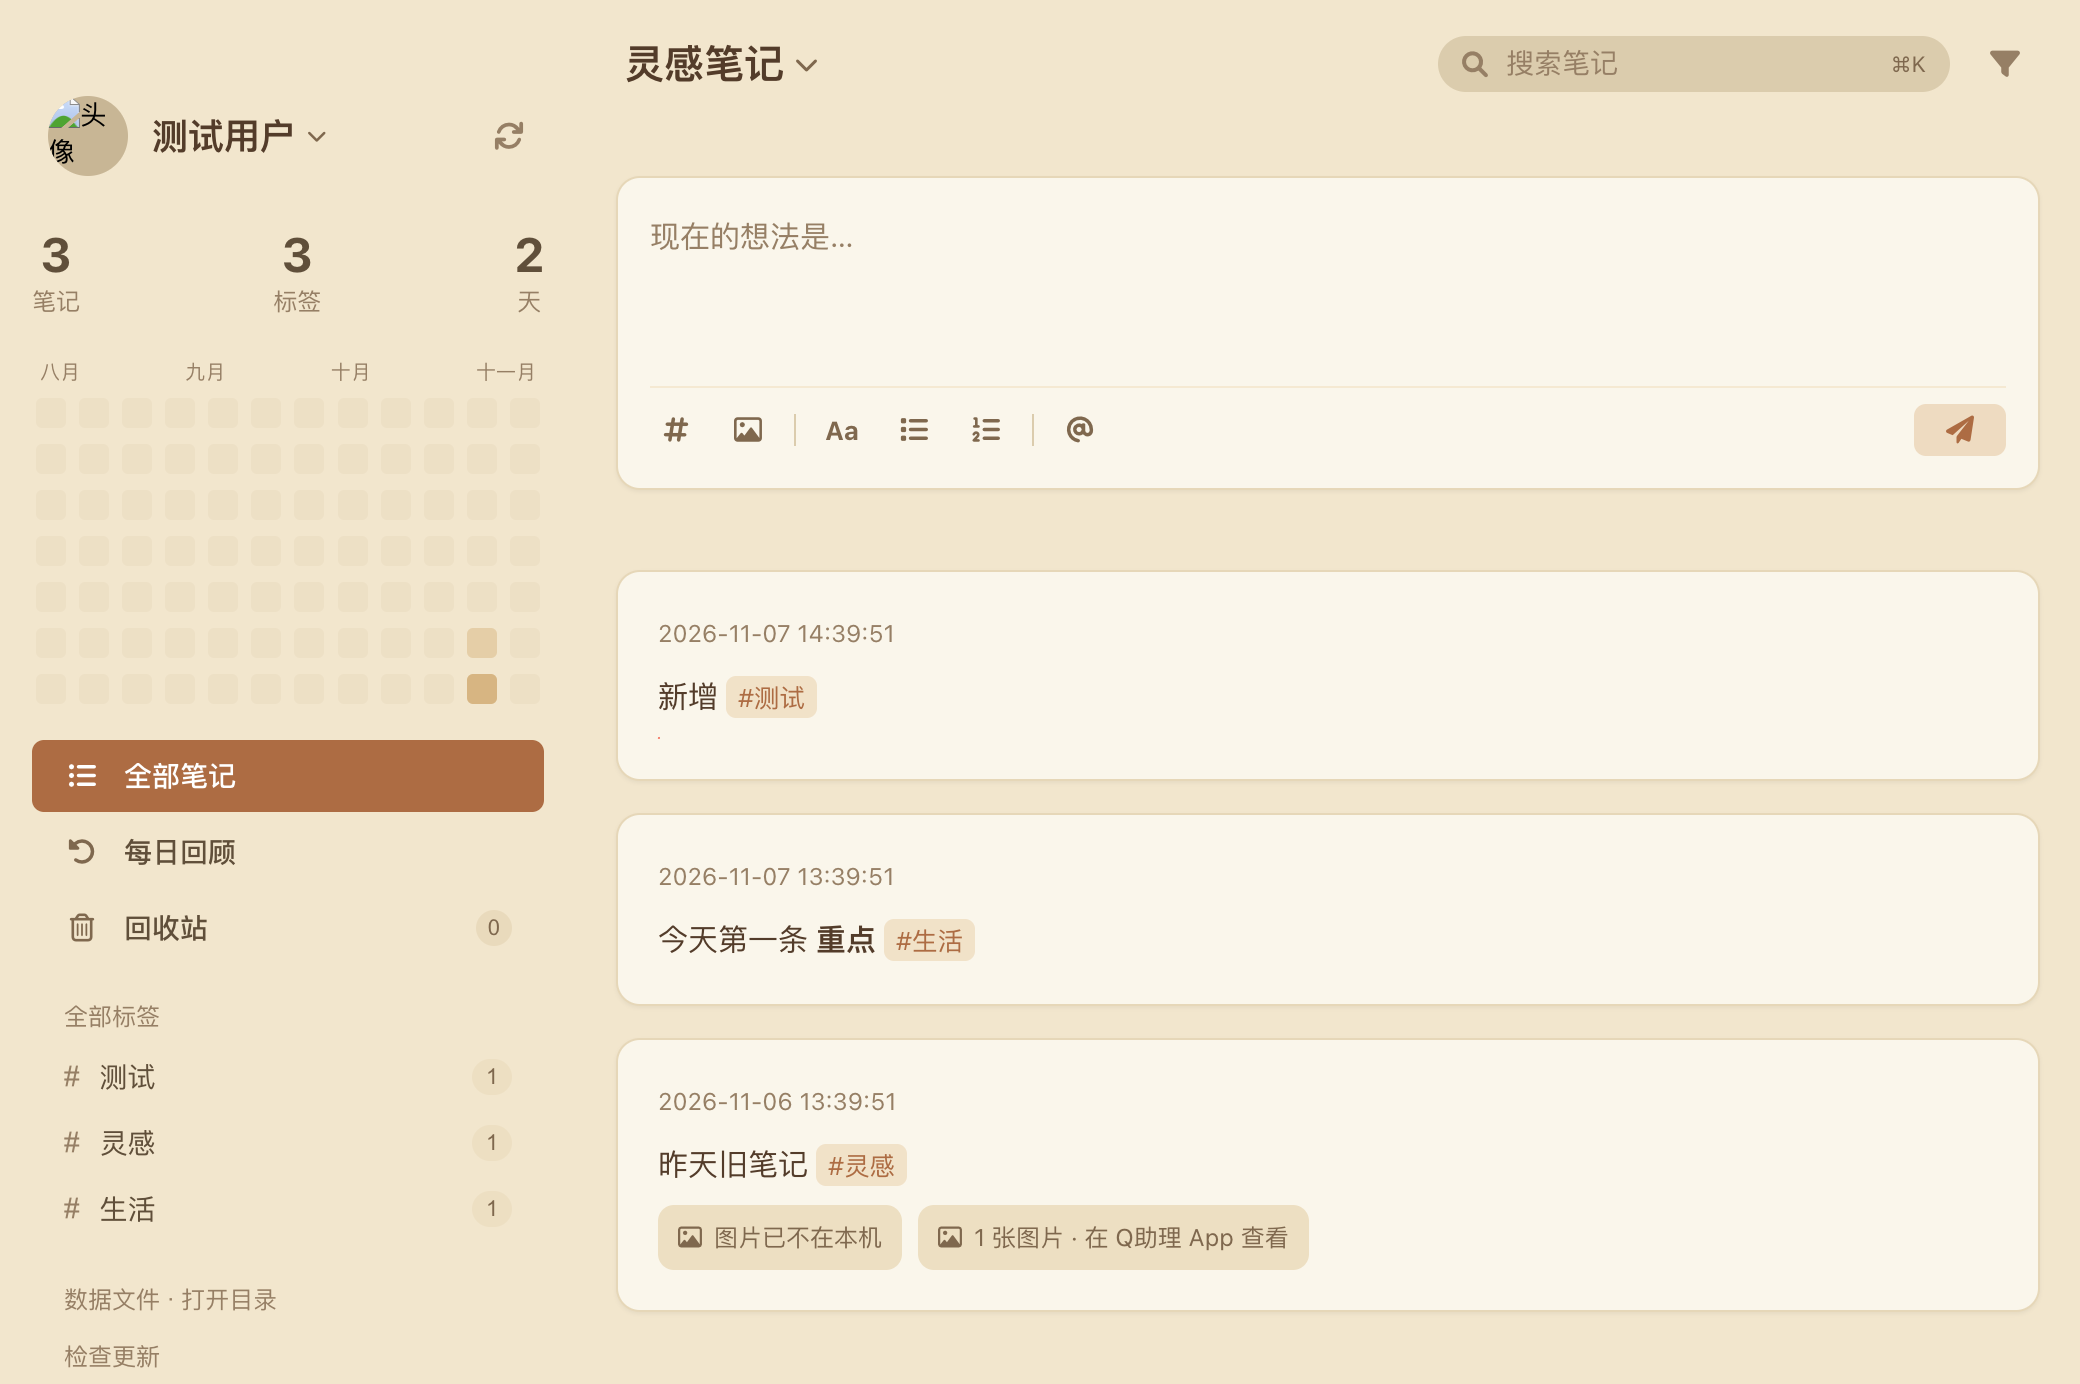
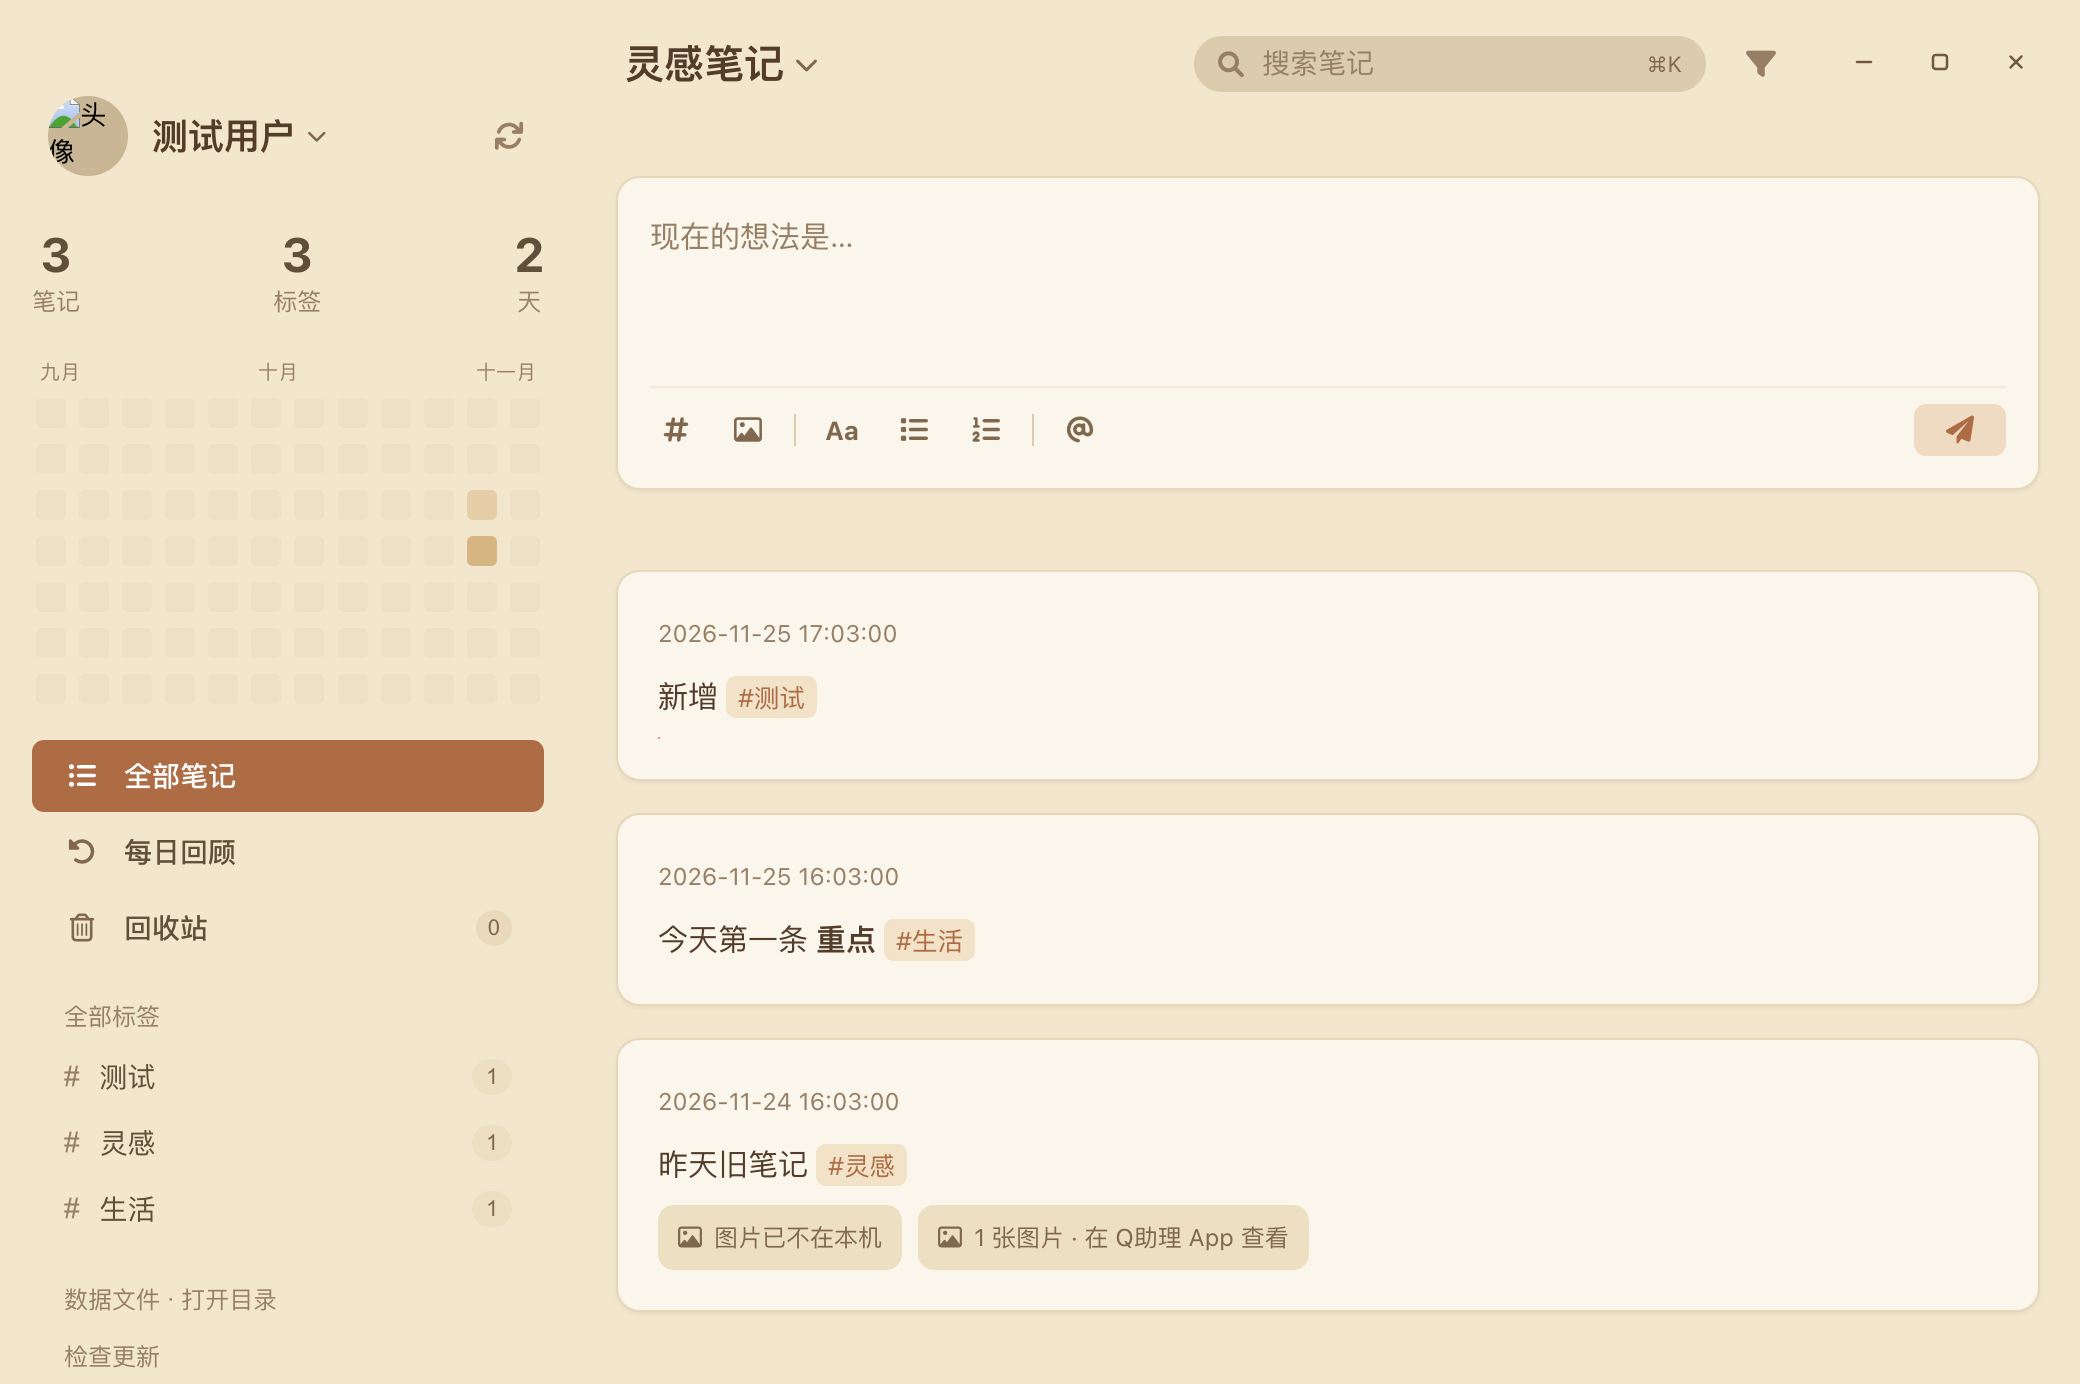
feat(win): 去掉系统标题栏/菜单条，右上角自绘三按钮
- main.js：Windows/Linux 走 frame:false 无边框；非 macOS 平台 Menu.setApplicationMenu(null)
  移除系统菜单条（macOS 保留默认菜单，Cmd+C/V/Q 依赖它）
- 新增 window:minimize / window:toggle-maximize / window:close IPC，
  最大化状态经 window:maximized 推给渲染层（按钮图标在最大化/还原间切换）
- 渲染层：右上角固定三按钮（36x30、细线图标、hover 浅棕底、关闭 hover 暖红），
  跟随主题色；Windows 下顶栏右 padding 146px 避让；登录页整页可拖动、卡片不参与
- preload：暴露 windowControls + platform（IDEA_NOTE_FORCE_WIN_CONTROLS=1 可在 mac 预览）
- smoke：新增三按钮断言（存在/数量/尺寸/no-drag/贴右/按平台显示或隐藏）；
  默认与 force-win 两种模式均 SMOKE_PASS=true；npm test 407 全过

diff --git a/main.js b/main.js
@@ -7,7 +7,7 @@
  */
 'use strict';
 
-const { app, BrowserWindow, Tray, Menu, globalShortcut, shell, nativeImage, screen } = require('electron');
+const { app, BrowserWindow, Tray, Menu, globalShortcut, shell, nativeImage, screen, ipcMain } = require('electron');
 const path = require('path');
 const fs = require('fs');
 const { initApp } = require('./app-core');
@@ -119,7 +119,7 @@ function migrateLegacyDataDir() {
 
 function createWindow() {
   const state = loadWindowState() || {};
-  mainWindow = new BrowserWindow({
+  const winOptions = {
     width: state.width || 1040,
     height: state.height || 720,
     minWidth: MIN_W,
@@ -128,20 +128,33 @@ function createWindow() {
     backgroundColor: '#f4e9d3',
     show: false,
     icon: APP_ICON(),
-    // 无边框窗口：隐藏原生标题栏，保留 macOS 红黄绿交通灯按钮
-    titleBarStyle: 'hiddenInset',
-    trafficLightPosition: { x: 16, y: 14 },
     webPreferences: {
       preload: path.join(__dirname, 'preload.js'),
       contextIsolation: true,
       nodeIntegration: false,
       sandbox: true
     }
-  });
+  };
+  if (process.platform === 'darwin') {
+    // macOS：隐藏原生标题栏，保留红黄绿交通灯按钮
+    winOptions.titleBarStyle = 'hiddenInset';
+    winOptions.trafficLightPosition = { x: 16, y: 14 };
+  } else {
+    // Windows/Linux：完全无边框（没有系统标题栏/菜单条），右上角自绘三按钮
+    winOptions.frame = false;
+  }
+  mainWindow = new BrowserWindow(winOptions);
 
   mainWindow.loadFile(path.join(__dirname, 'renderer', 'index.html'));
 
-  mainWindow.once('ready-to-show', () => mainWindow.show());
+  mainWindow.once('ready-to-show', () => {
+    mainWindow.show();
+    pushMaximizedState();
+  });
+
+  // 最大化/还原状态推给渲染层，用于切换右上角按钮图标
+  mainWindow.on('maximize', pushMaximizedState);
+  mainWindow.on('unmaximize', pushMaximizedState);
 
   // 点击关闭按钮 -> 隐藏到托盘（保持后台快速记录能力）；隐藏/退出时保存窗口宽高
   mainWindow.on('close', (e) => {
@@ -198,6 +211,27 @@ function toggleWindow() {
   }
 }
 
+// ---- 无边框窗口（Windows/Linux）：右上角自绘三按钮 ----
+function pushMaximizedState() {
+  if (!mainWindow || mainWindow.isDestroyed()) return;
+  mainWindow.webContents.send('window:maximized', mainWindow.isMaximized());
+}
+
+function registerWindowControls() {
+  ipcMain.on('window:minimize', () => {
+    if (mainWindow) mainWindow.minimize();
+  });
+  ipcMain.on('window:toggle-maximize', () => {
+    if (!mainWindow) return;
+    if (mainWindow.isMaximized()) mainWindow.unmaximize();
+    else mainWindow.maximize();
+  });
+  // 关闭走 close 事件 → 沿用「隐藏到托盘、不退出」的既有语义
+  ipcMain.on('window:close', () => {
+    if (mainWindow) mainWindow.close();
+  });
+}
+
 function focusInput() {
   if (mainWindow && mainWindow.webContents) {
     mainWindow.webContents.send('app:focus-input');
@@ -221,6 +255,8 @@ function registerGlobalShortcut() {
 // ---- 应用生命周期 ----
 app.whenReady().then(async () => {
   migrateLegacyDataDir();
+  // Windows/Linux：去掉系统菜单条（File/Edit/…）；macOS 保留默认菜单（Cmd+C/V/Q 依赖它）
+  if (process.platform !== 'darwin') Menu.setApplicationMenu(null);
   // macOS Dock 图标（开发/运行期即替换为产品图标）
   if (process.platform === 'darwin' && app.dock) {
     app.dock.setIcon(APP_ICON());
@@ -238,6 +274,7 @@ app.whenReady().then(async () => {
   }
   createTray();
   registerGlobalShortcut();
+  registerWindowControls();
 
   // 自动化升级：启动后自动检查、后台下载、就绪后提示重启安装（打包版生效）
   initUpdater({

diff --git a/smoke-test.js b/smoke-test.js
@@ -236,6 +236,25 @@ app.whenReady().then(async () => {
       out.sidebarTagCount = document.querySelectorAll('.tag-item').length;
       out.memoCount = document.getElementById('stat-memos').textContent;
 
+      // 无边框窗口三按钮（Windows 自绘；macOS 隐藏、走原生红黄绿）
+      const wc = document.getElementById('win-controls');
+      out.winControlsExists = !!wc;
+      out.winControlsVisible = !!(wc && !wc.classList.contains('hidden') && getComputedStyle(wc).display !== 'none');
+      out.winCtlCount = wc ? wc.querySelectorAll('.win-ctl').length : 0;
+      out.platformWinClass = document.body.classList.contains('platform-win');
+      const firstCtl = wc ? wc.querySelector('.win-ctl') : null;
+      if (wc) out.winCtlRightGap = Math.round(window.innerWidth - wc.getBoundingClientRect().right);
+      if (firstCtl) {
+        const rect = firstCtl.getBoundingClientRect();
+        const st = getComputedStyle(firstCtl);
+        out.winCtlSize = Math.round(rect.width) + 'x' + Math.round(rect.height);
+        out.winCtlRegion = st.getPropertyValue('-webkit-app-region') || st.getPropertyValue('app-region') || '';
+        out.winCtlIcons = Array.prototype.map.call(
+          wc.querySelectorAll('.win-ctl svg'),
+          (s) => (s.classList.contains('hidden') ? 'hidden:' : '') + (s.classList.contains('ico-max') ? 'max' : s.classList.contains('ico-restore') ? 'restore' : 'plain')
+        ).join('|');
+      }
+
       // 图片渲染：mock 的 image_url 是假七牛域名（必然加载失败）→ 应降级为占位且保留原地址
       out.hasLightbox = !!document.getElementById('image-lightbox');
       out.imgCount = document.querySelectorAll('.memo-image-thumb').length;
@@ -490,6 +509,12 @@ app.whenReady().then(async () => {
 
     const pass =
       result.loginHidden && result.appVisible &&
+      result.winControlsExists === true && result.winCtlCount === 3 &&
+      result.winCtlRegion === 'no-drag' &&
+      (result.platformWinClass === true
+        ? (result.winControlsVisible === true && /^36x30$/.test(result.winCtlSize || '')
+           && typeof result.winCtlRightGap === 'number' && result.winCtlRightGap >= 0 && result.winCtlRightGap <= 60)
+        : result.winControlsVisible === false) &&
       result.userName === '测试用户' &&
       result.cardCount === 2 &&
       result.sidebarTagCount === 2 &&

diff --git a/renderer/styles.css b/renderer/styles.css
@@ -966,3 +966,66 @@ html, body {
   cursor: default;
 }
 .memo-image-missing i { font-size: 12px; }
+
+/* ===== 无边框窗口（Windows/Linux）：右上角自绘三按钮 ===== */
+/* 设计语言沿用应用本体：纸底透出的暖棕描边图标、hover 才浮出浅棕底，关闭按钮 hover 用主题橙棕 */
+.win-controls {
+  position: fixed;
+  top: 16px;
+  right: 14px;
+  z-index: 1200;               /* 高于主区与侧边栏一切内容，不随滚动移动 */
+  display: flex;
+  align-items: center;
+  gap: 2px;
+  -webkit-app-region: no-drag;
+}
+.win-ctl {
+  width: 36px;
+  height: 30px;
+  display: inline-flex;
+  align-items: center;
+  justify-content: center;
+  padding: 0;
+  border: 1px solid transparent;
+  border-radius: 8px;
+  background: transparent;
+  color: var(--text-2);
+  cursor: pointer;
+  transition: background-color .15s ease, color .15s ease, border-color .15s ease;
+  -webkit-app-region: no-drag;
+}
+.win-ctl svg {
+  width: 12px;
+  height: 12px;
+  fill: none;
+  stroke: currentColor;
+  stroke-width: 1.2;
+  stroke-linecap: round;
+  stroke-linejoin: round;
+}
+.win-ctl:hover {
+  background: rgba(93, 68, 48, .09);
+  border-color: rgba(93, 68, 48, .12);
+  color: var(--text);
+}
+.win-ctl:active { background: rgba(93, 68, 48, .16); }
+.win-ctl:focus-visible { outline: 2px solid var(--green); outline-offset: 1px; }
+.win-ctl.win-close:hover {
+  background: var(--red);          /* 关闭用暖红（品牌功能色），符合桌面习惯又不刺眼 */
+  border-color: var(--red);
+  color: #fff9f0;
+}
+.win-ctl.win-close:active {
+  background: #b84436;
+  border-color: #b84436;
+}
+
+/* Windows 下顶部右侧留出三按钮的位置，避免压住搜索/同步控件 */
+.platform-win .main-header { padding-right: 146px; }
+
+/* 登录视图没有主区顶栏：整页可拖动，卡片本身不参与（否则无法拖动窗口） */
+.platform-win .login-view { -webkit-app-region: drag; }
+.platform-win .login-card { -webkit-app-region: no-drag; }
+
+/* 最大化时按钮贴边，贴合 Windows 原生习惯 */
+.platform-win.win-maximized .win-controls { top: 8px; right: 8px; }

diff --git a/renderer/app.js b/renderer/app.js
@@ -1943,8 +1943,35 @@
     }
   }
 
+  // ---------- 无边框窗口（Windows/Linux）：右上角自绘三按钮 ----------
+  function initWindowControls() {
+    const isWin = !!(window.ideaNote && window.ideaNote.platform === 'win32');
+    if (!isWin) return;
+    document.body.classList.add('platform-win');
+    const box = $('#win-controls');
+    if (!box) return;
+    box.classList.remove('hidden');
+    const ctl = window.ideaNote.windowControls || {};
+    const min = $('#win-minimize');
+    const maxBtn = $('#win-maximize');
+    const close = $('#win-close');
+    if (min) min.addEventListener('click', () => { if (ctl.minimize) ctl.minimize(); });
+    if (maxBtn) maxBtn.addEventListener('click', () => { if (ctl.toggleMaximize) ctl.toggleMaximize(); });
+    if (close) close.addEventListener('click', () => { if (ctl.close) ctl.close(); });
+    const icoMax = box.querySelector('.ico-max');
+    const icoRestore = box.querySelector('.ico-restore');
+    const applyMaximized = (maximized) => {
+      if (icoMax) icoMax.classList.toggle('hidden', maximized);
+      if (icoRestore) icoRestore.classList.toggle('hidden', !maximized);
+      if (maxBtn) maxBtn.setAttribute('data-tip', maximized ? '还原' : '最大化');
+      document.body.classList.toggle('win-maximized', !!maximized);
+    };
+    if (ctl.onMaximized) ctl.onMaximized(applyMaximized);
+  }
+
   // ---------- 启动 ----------
   async function init() {
+    initWindowControls();
     bindEvents();
     initUpdaterUi();
     await refreshMediaIndex(); // 本地图片映射：决定卡片能否显示本机缩略图

diff --git a/renderer/index.html b/renderer/index.html
@@ -9,6 +9,20 @@
   <link rel="stylesheet" href="styles.css" />
 </head>
 <body>
+  <!-- 无边框窗口（Windows/Linux）：右上角自绘三按钮；macOS 用原生红黄绿交通灯，不显示 -->
+  <div id="win-controls" class="win-controls hidden" role="group" aria-label="窗口控制">
+    <button id="win-minimize" class="win-ctl" type="button" data-tip="最小化" aria-label="最小化">
+      <svg viewBox="0 0 12 12" aria-hidden="true"><path d="M2.5 6h7"/></svg>
+    </button>
+    <button id="win-maximize" class="win-ctl" type="button" data-tip="最大化" aria-label="最大化">
+      <svg class="ico-max" viewBox="0 0 12 12" aria-hidden="true"><rect x="2.5" y="2.5" width="7" height="7" rx="1.4"/></svg>
+      <svg class="ico-restore hidden" viewBox="0 0 12 12" aria-hidden="true"><rect x="2.2" y="4.2" width="5.8" height="5.8" rx="1.4"/><path d="M4.4 4.2V3.4a1.2 1.2 0 0 1 1.2-1.2h3.2a1.2 1.2 0 0 1 1.2 1.2v3.2a1.2 1.2 0 0 1-1.2 1.2h-.9"/></svg>
+    </button>
+    <button id="win-close" class="win-ctl win-close" type="button" data-tip="关闭到托盘" aria-label="关闭">
+      <svg viewBox="0 0 12 12" aria-hidden="true"><path d="M3.2 3.2l5.6 5.6M8.8 3.2l-5.6 5.6"/></svg>
+    </button>
+  </div>
+
   <!-- 登录视图 -->
   <div id="login-view" class="login-view hidden">
     <div class="login-card">

diff --git a/preload.js b/preload.js
@@ -67,5 +67,18 @@ contextBridge.exposeInMainWorld('ideaNote', {
     onStatus: (cb) => {
       ipcRenderer.on('updater:event', (_e, payload) => cb(payload));
     }
-  }
+  },
+  // 无边框窗口：右上角自绘三按钮（Windows/Linux）
+  windowControls: {
+    minimize: () => ipcRenderer.send('window:minimize'),
+    toggleMaximize: () => ipcRenderer.send('window:toggle-maximize'),
+    close: () => ipcRenderer.send('window:close'),
+    // 最大化/还原状态（用于切换按钮图标）
+    onMaximized: (cb) => {
+      ipcRenderer.on('window:maximized', (_e, maximized) => cb(Boolean(maximized)));
+    }
+  },
+  // 渲染层据此决定是否显示自绘三按钮（macOS 走原生交通灯）
+  // IDEA_NOTE_FORCE_WIN_CONTROLS=1 可在 macOS 上预览/冒烟测试这套按钮
+  platform: process.env.IDEA_NOTE_FORCE_WIN_CONTROLS === '1' ? 'win32' : process.platform
 });
